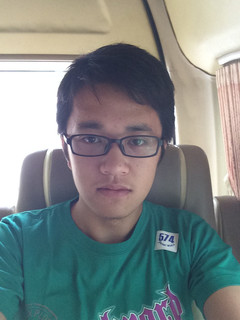
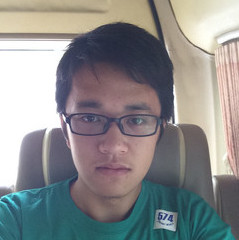
move img, and resize

diff --git a/index.html b/index.html
@@ -28,12 +28,6 @@
   <body id="page-top">
 
     <nav class="navbar navbar-expand-lg navbar-dark bg-primary fixed-top" id="sideNav">
-      <a class="navbar-brand js-scroll-trigger" href="#page-top">
-        <span class="d-block d-lg-none">Start Bootstrap</span>
-        <span class="d-none d-lg-block">
-          <img class="img-fluid img-profile rounded-circle mx-auto mb-2" src="img/profile.jpg" alt="">
-        </span>
-      </a>
       <button class="navbar-toggler" type="button" data-toggle="collapse" data-target="#navbarSupportedContent" aria-controls="navbarSupportedContent" aria-expanded="false" aria-label="Toggle navigation">
         <span class="navbar-toggler-icon"></span>
       </button>
@@ -66,6 +60,7 @@
 
       <section class="resume-section p-3 p-lg-5 d-flex d-column" id="about">
         <div class="my-auto">
+          <img class="img-fluid img-profile rounded-circle mx-auto d-block mb-3" src="img/profile.jpg" alt="" style="width:20%">
           <h1 class="mb-0">Shwe
             <span class="text-primary">Aye</span>
           </h1>
